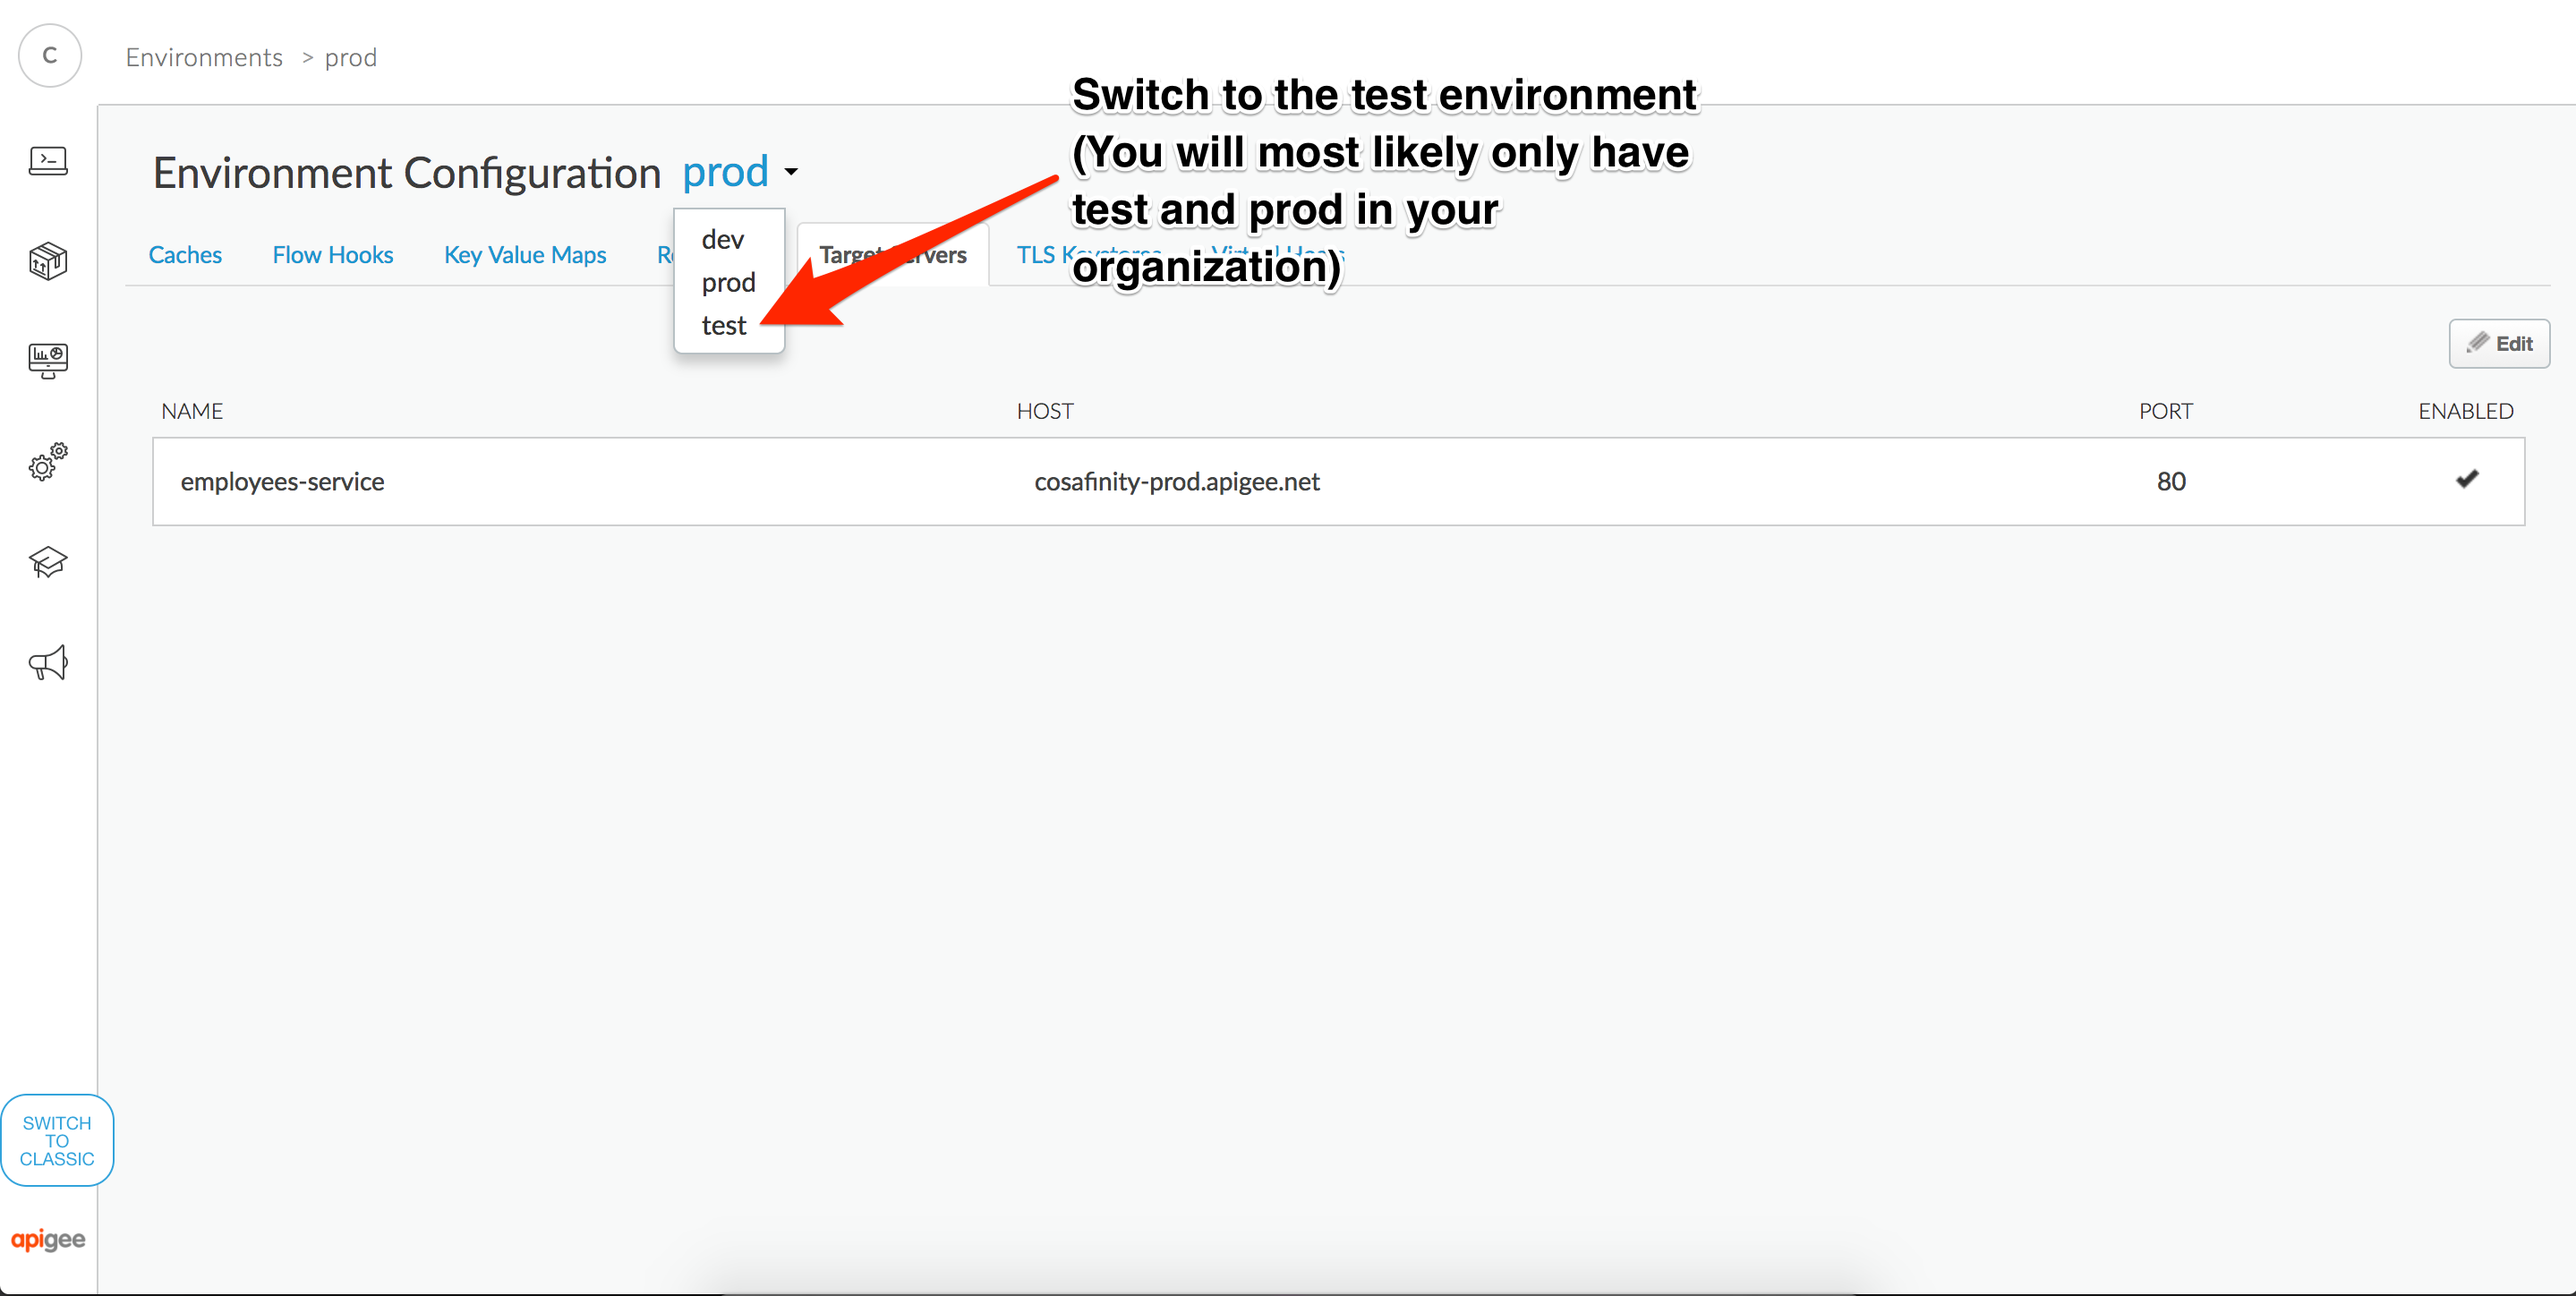
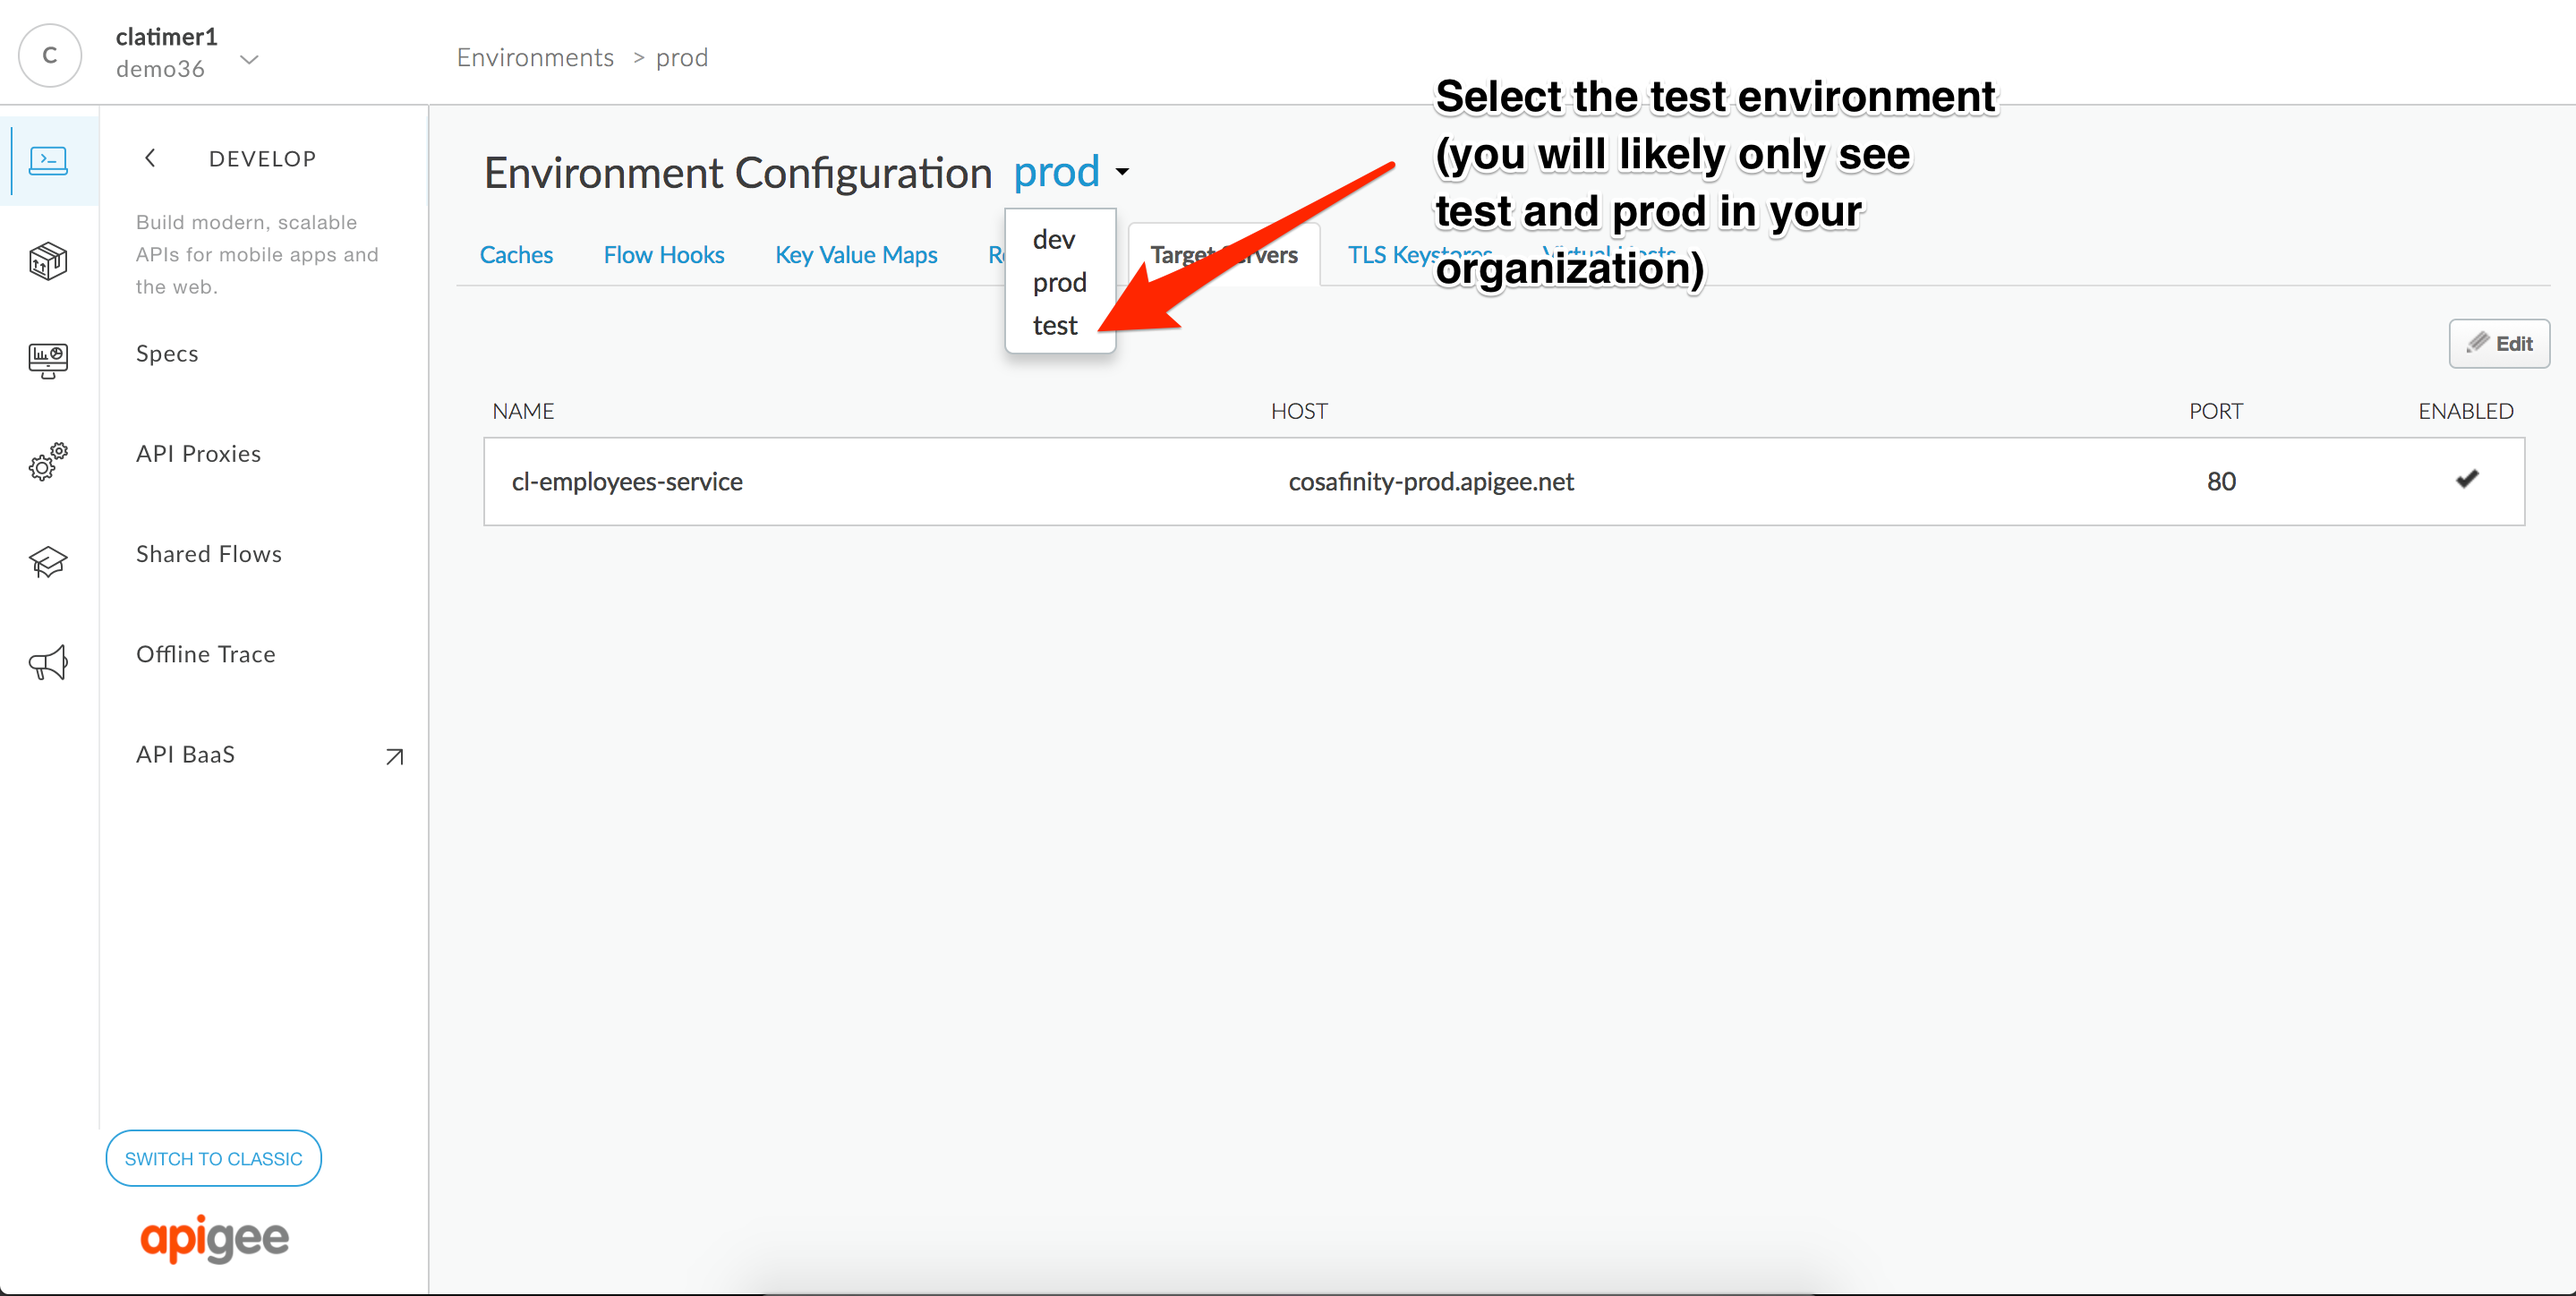
Target Endpoints Lab WIP

diff --git a/Labs/Appendix/API Development - Target Endpoints/README.md b/Labs/Appendix/API Development - Target Endpoints/README.md
@@ -74,4 +74,71 @@ Enabled: checked
 
 ![Populate target server](./media/populate-test-target-server.png)
 
-At this point we now have created our target server for the *Employees Service* in both the test and prod environments. 
+At this point we now have created our target server for the *Employees Service* in both the test and prod environments. Our next task will be configuring a proxy that uses the named target servers.
+
+* Navigate to the API Proxies list view:
+
+![Proxies list](./media/open-api-proxies-list.png)
+
+* Click on +API Proxy to create a new API Proxy
+
+![New API Proxy](./media/new-api-proxy.png)
+
+* Select the Reverse Proxy option then click on Next
+
+![Proxy Wizard](./media/proxy-wizard-1.png)
+
+* Configure your API Proxy as shown in the following diagram:
+
+![Proxy Wizard](./media/proxy-wizard-2.png)
+
+* Select the Pass Through option for Authorization
+
+![Proxy Wizard](./media/proxy-wizard-3.png)
+
+* Select the default options for virtual host bindings:
+
+![Proxy Wizard](./media/proxy-wizard-4.png)
+
+* Select the default options for deployment options
+
+![Proxy Wizard](./media/proxy-wizard-5.png)
+
+* Once you get confirmation your proxy was successfully created, click on the provided link to open your API Proxy
+
+![Proxy Wizard](./media/proxy-wizard-6.png)
+
+* Once you arrive on the Overview page for your new proxy, click on the develop tab.
+
+![Open Develop Tab](./media/open-develop-tab.png)
+
+* In the develop tab, select the *default* Target Connection from the left hand pane. Scroll down to the bottom of the XML configuration until you see a tag labeled `HTTPTargetConnection`:
+
+![Find Target Connection](./media/find-target-connection.png)
+
+* Modify the `HTTPTargetConnection` to use a Load Balancer configuration as shown below. You can copy and paste the configuration provided below the image, making sure to replace {your-initials} with your actual initials. Click Save to save the proxy changes.
+
+![Configure Target](./media/configure-proxy-target-endpoint.png)
+
+You can copy/paste the following configuration for your `HTTPTargetConnection`:
+
+```
+  <HTTPTargetConnection>
+    <LoadBalancer>
+      <Server name="{your-initials}-employees-service" />
+    </LoadBalancer>
+    <Path>/v1/employees</Path>
+  </HTTPTargetConnection>
+```
+
+* Click on the Deployment drop down and select the prod environment to deploy your proxy to prod. This will bring up a confirmation dialog, click on the *Deploy* button to deploy.
+
+![Deploy to Prod](./media/deploy-to-prod.png)
+
+* Click on the Overview tab to verify that your API Proxy is deployed to both test and prod:
+
+![Click on Overview](./media/click-on-overview.png)
+
+* On the Overview tab, click on the test and prod URLs to call the API in each environment.
+
+![Click on URLs](./media/call-prod-and-test-apis.png)
